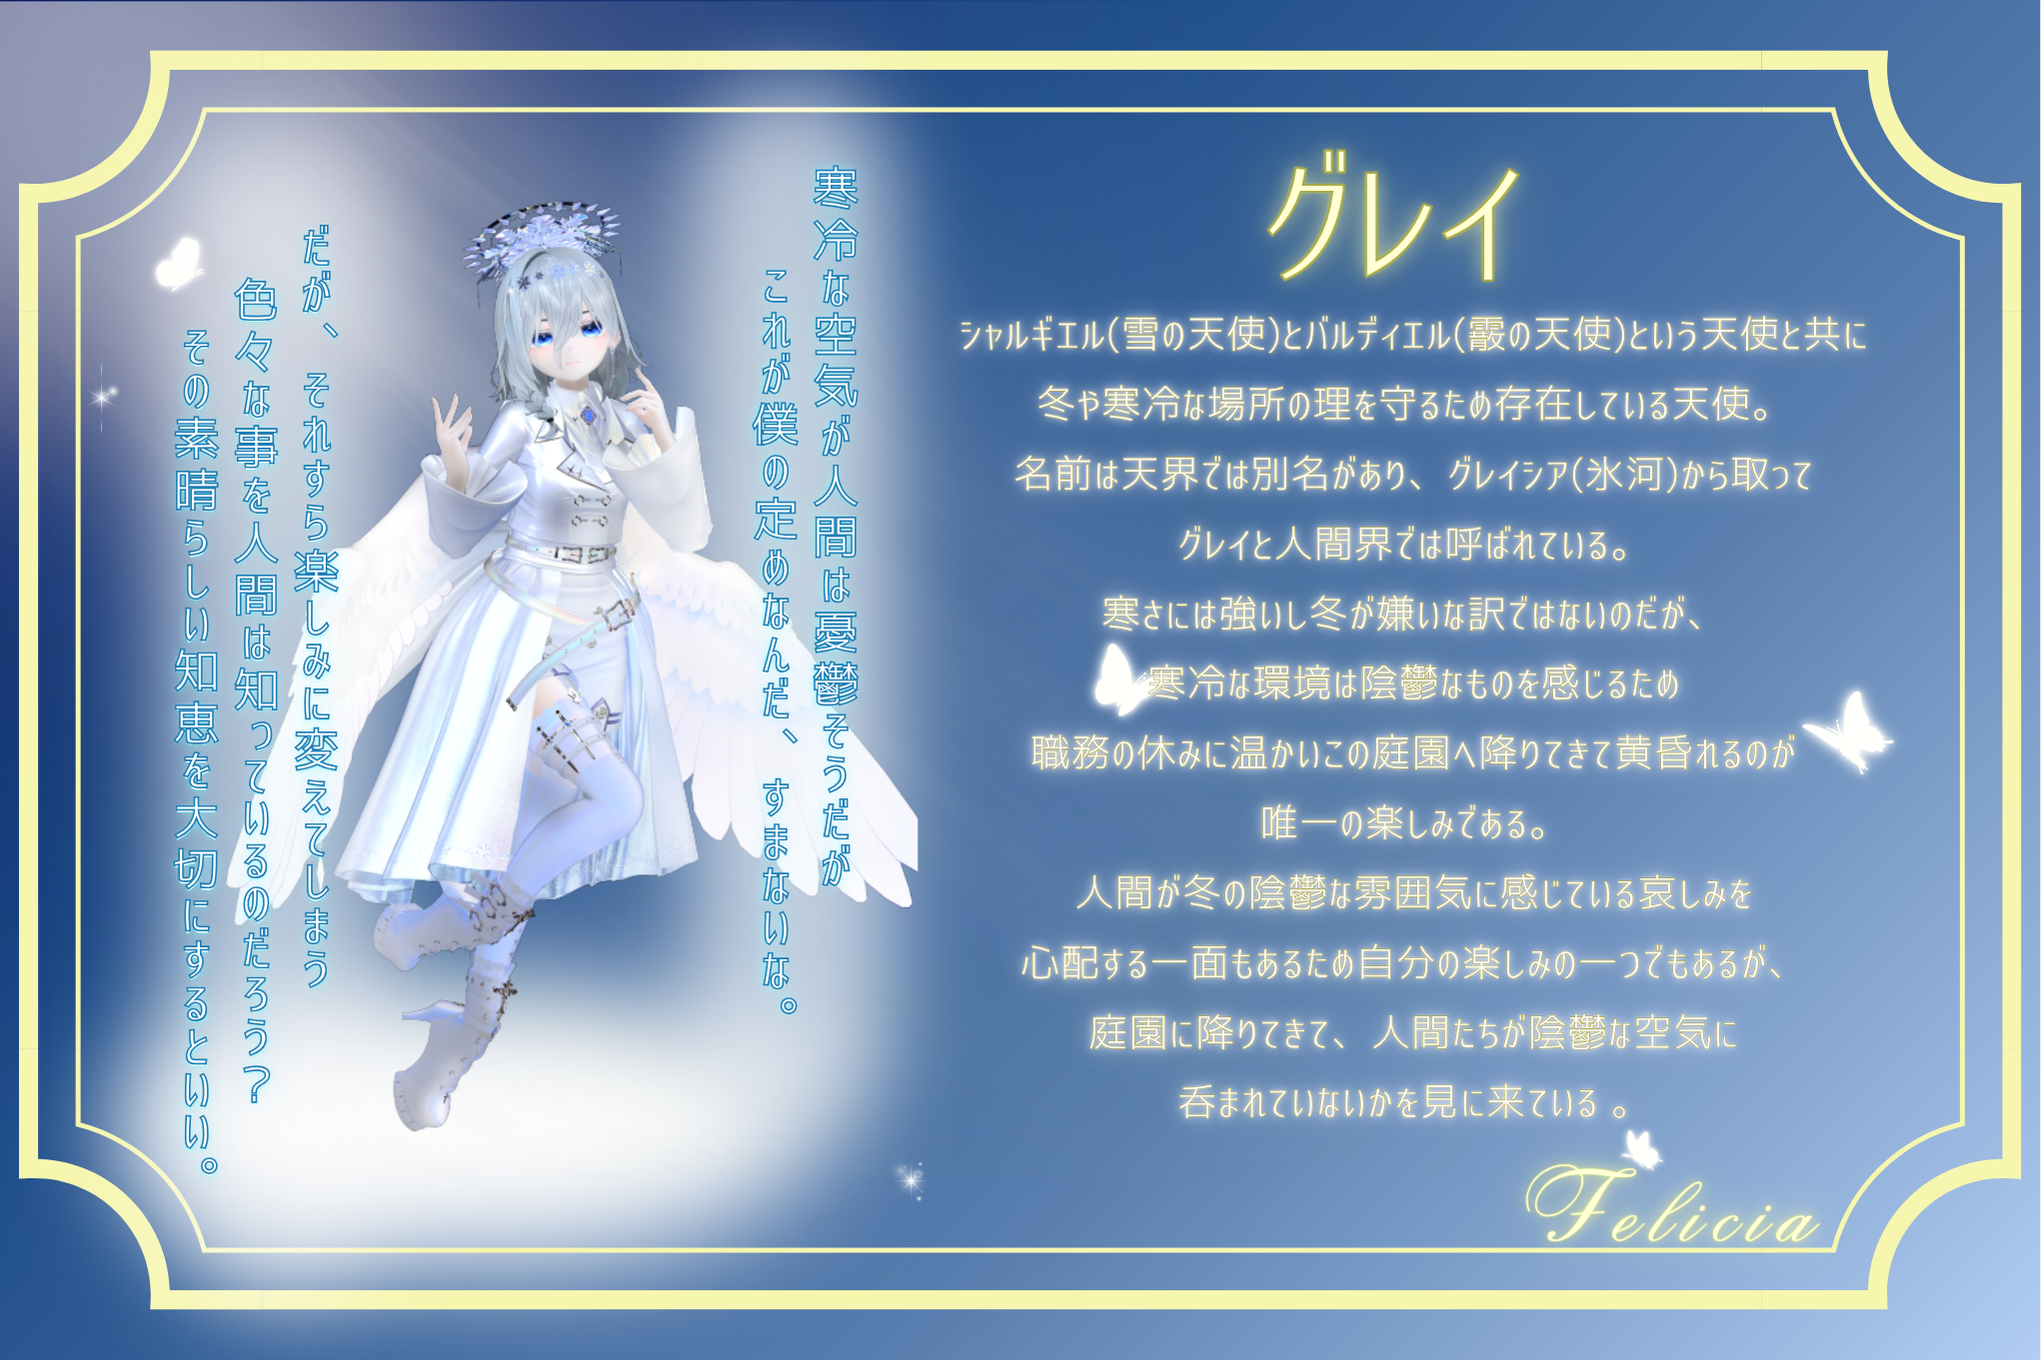
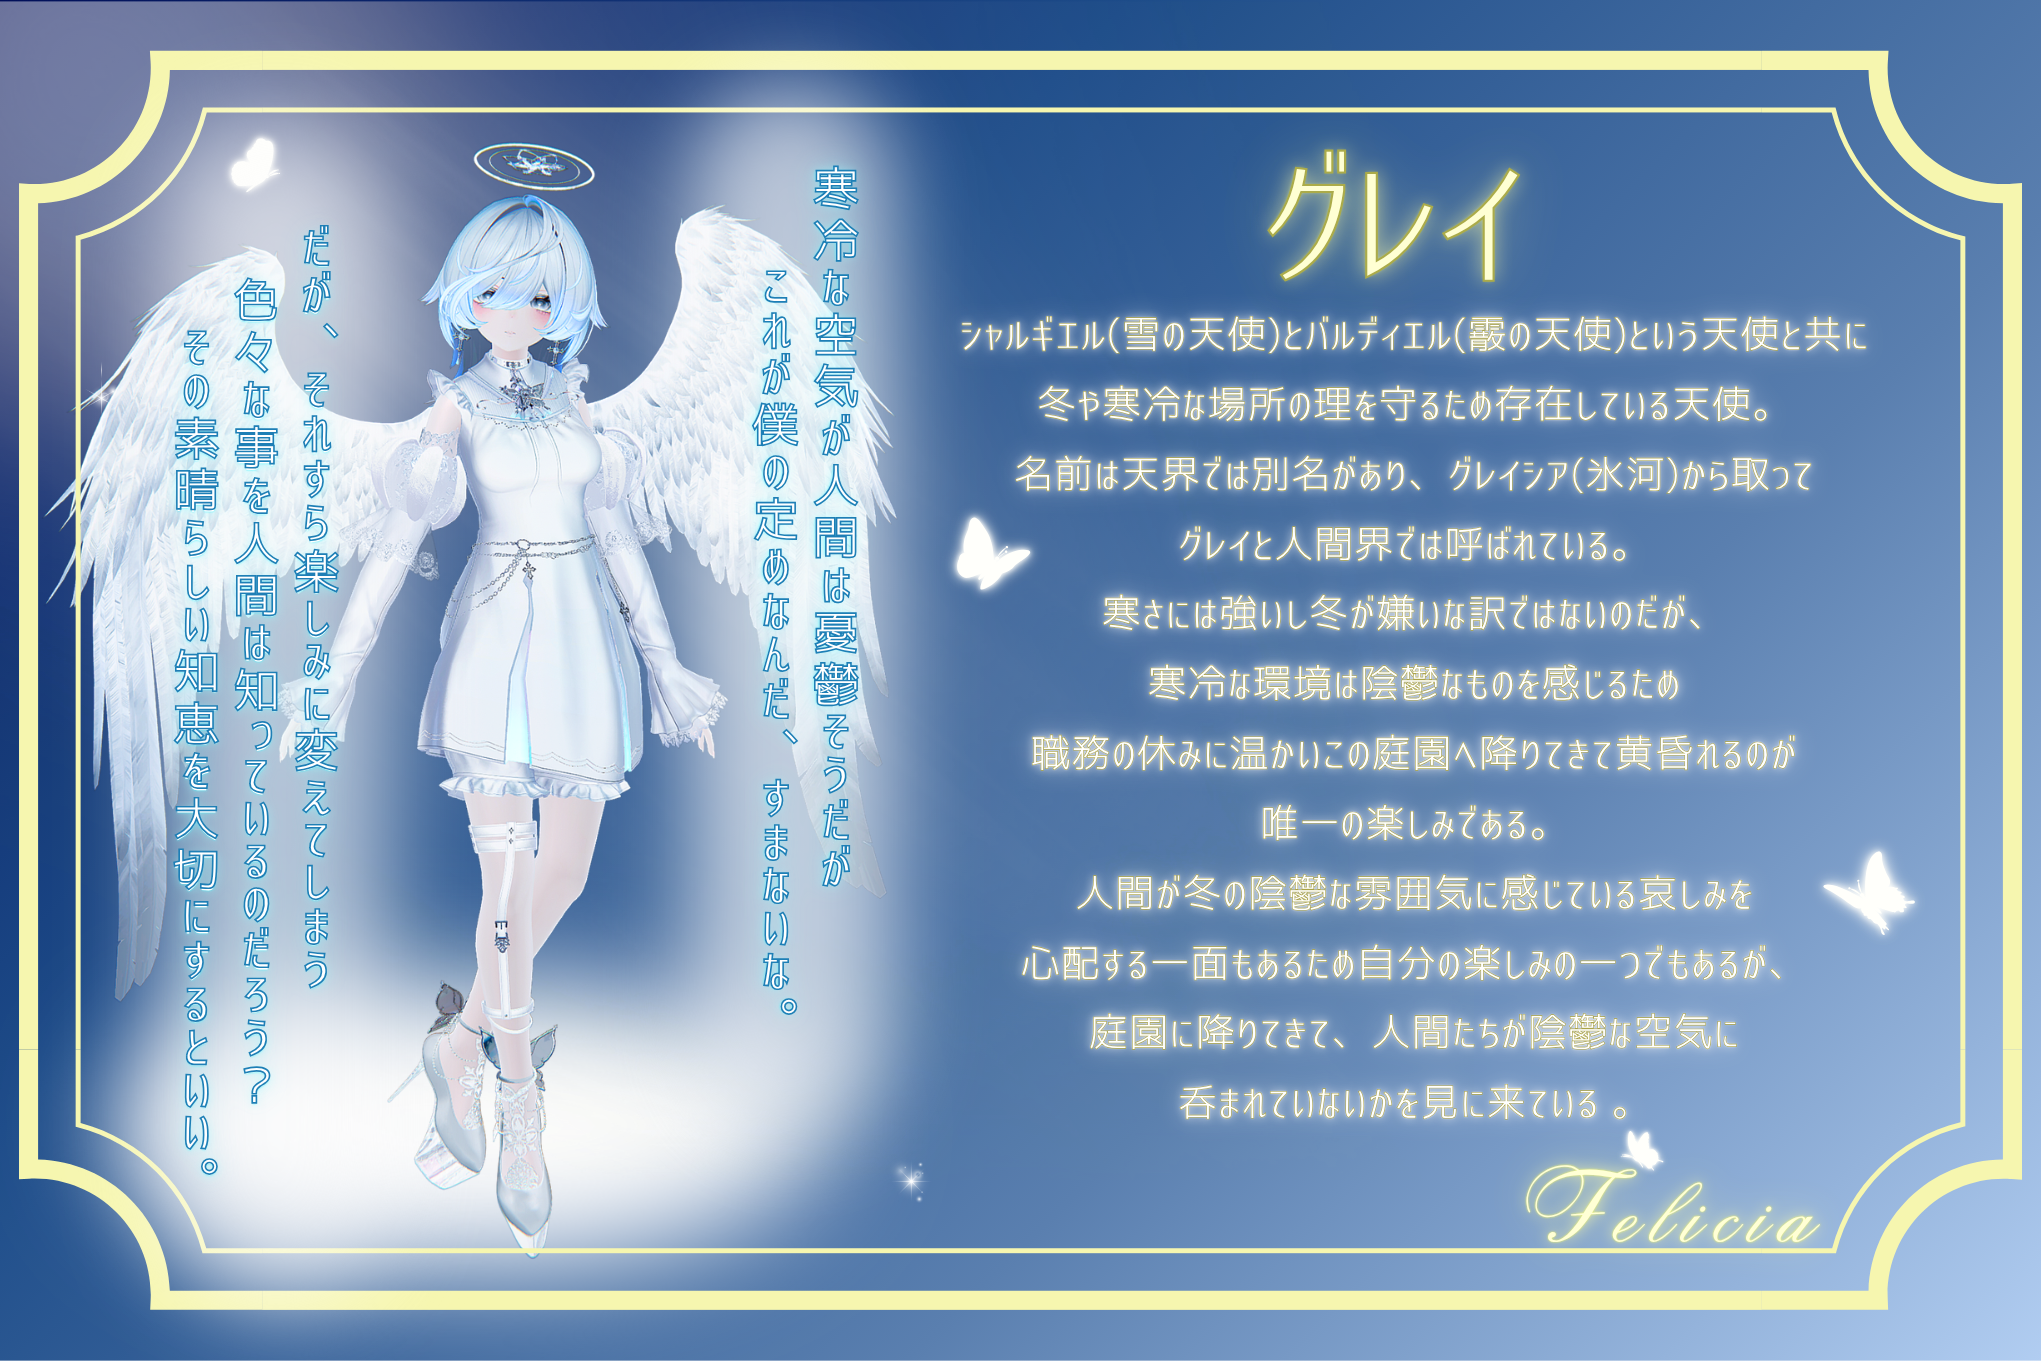
cast: update グレイ images; add 029_プリュヴィエル; hide 014_シエル

diff --git a/data/cast-data.js b/data/cast-data.js
@@ -73,12 +73,7 @@ window.CAST_DATA = [
     image: "images/cast/013_ソーマ.png",
     detailImage: "images/cast/013_ソーマ_Detail.png"
   },
-  {
-    order: 14,
-    name: "シエル",
-    image: "images/cast/014_シエル.png",
-    detailImage: "images/cast/014_シエル_Detail.png"
-  },
+  /* 014_シエル は一時非表示（画像ファイルは保持） */
   {
     order: 15,
     name: "セラフィオン",
@@ -154,5 +149,11 @@ window.CAST_DATA = [
     order: 28,
     name: "スティーズ・フルール",
     image: "images/cast/028_スティーズ・フルール.png"
+  },
+  {
+    order: 29,
+    name: "プリュヴィエル",
+    image: "images/cast/029_プリュヴィエル.png",
+    detailImage: "images/cast/029_プリュヴィエル_Detail.png"
   }
 ];
